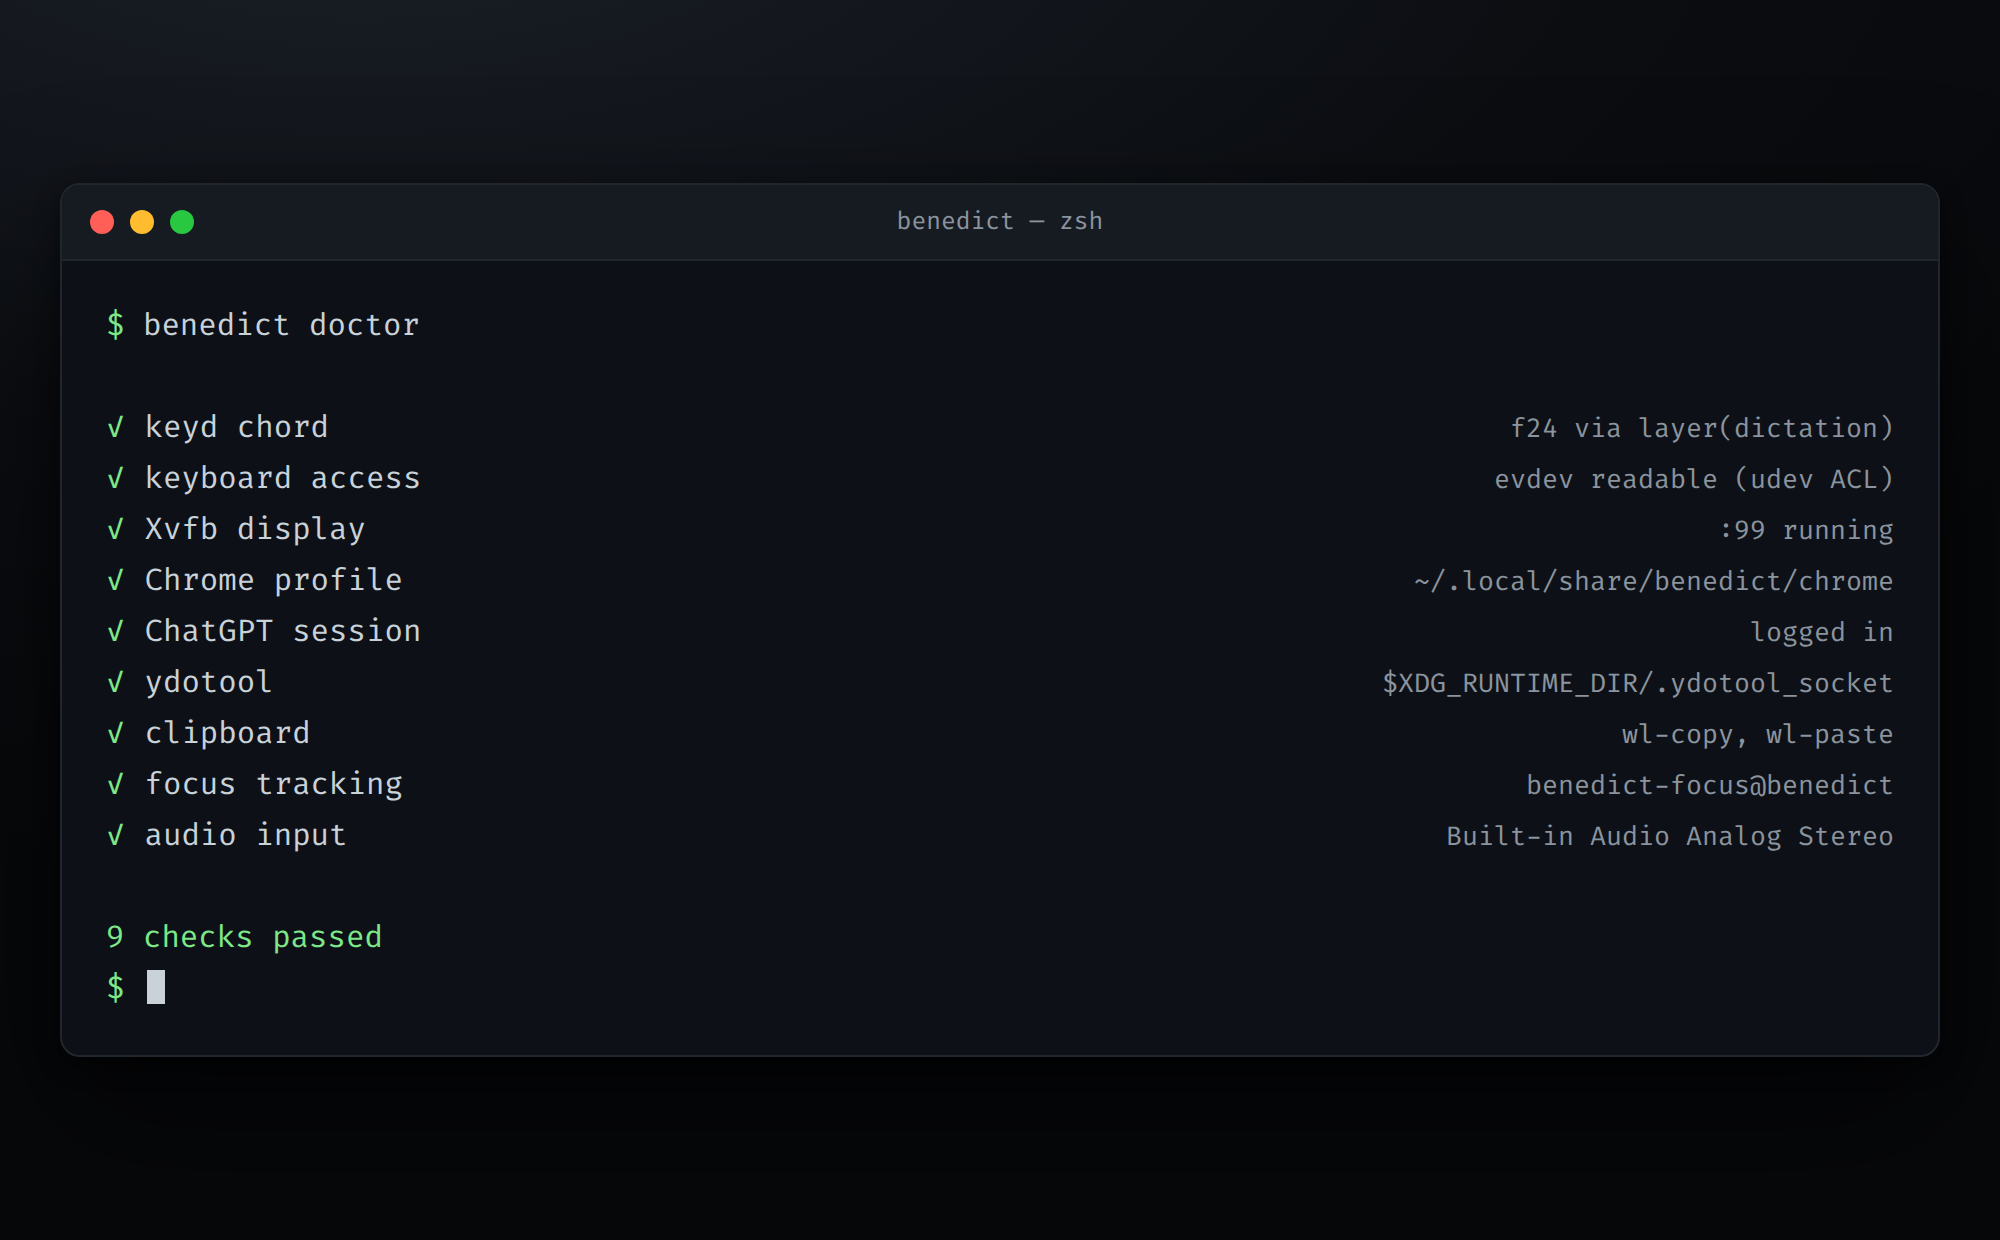
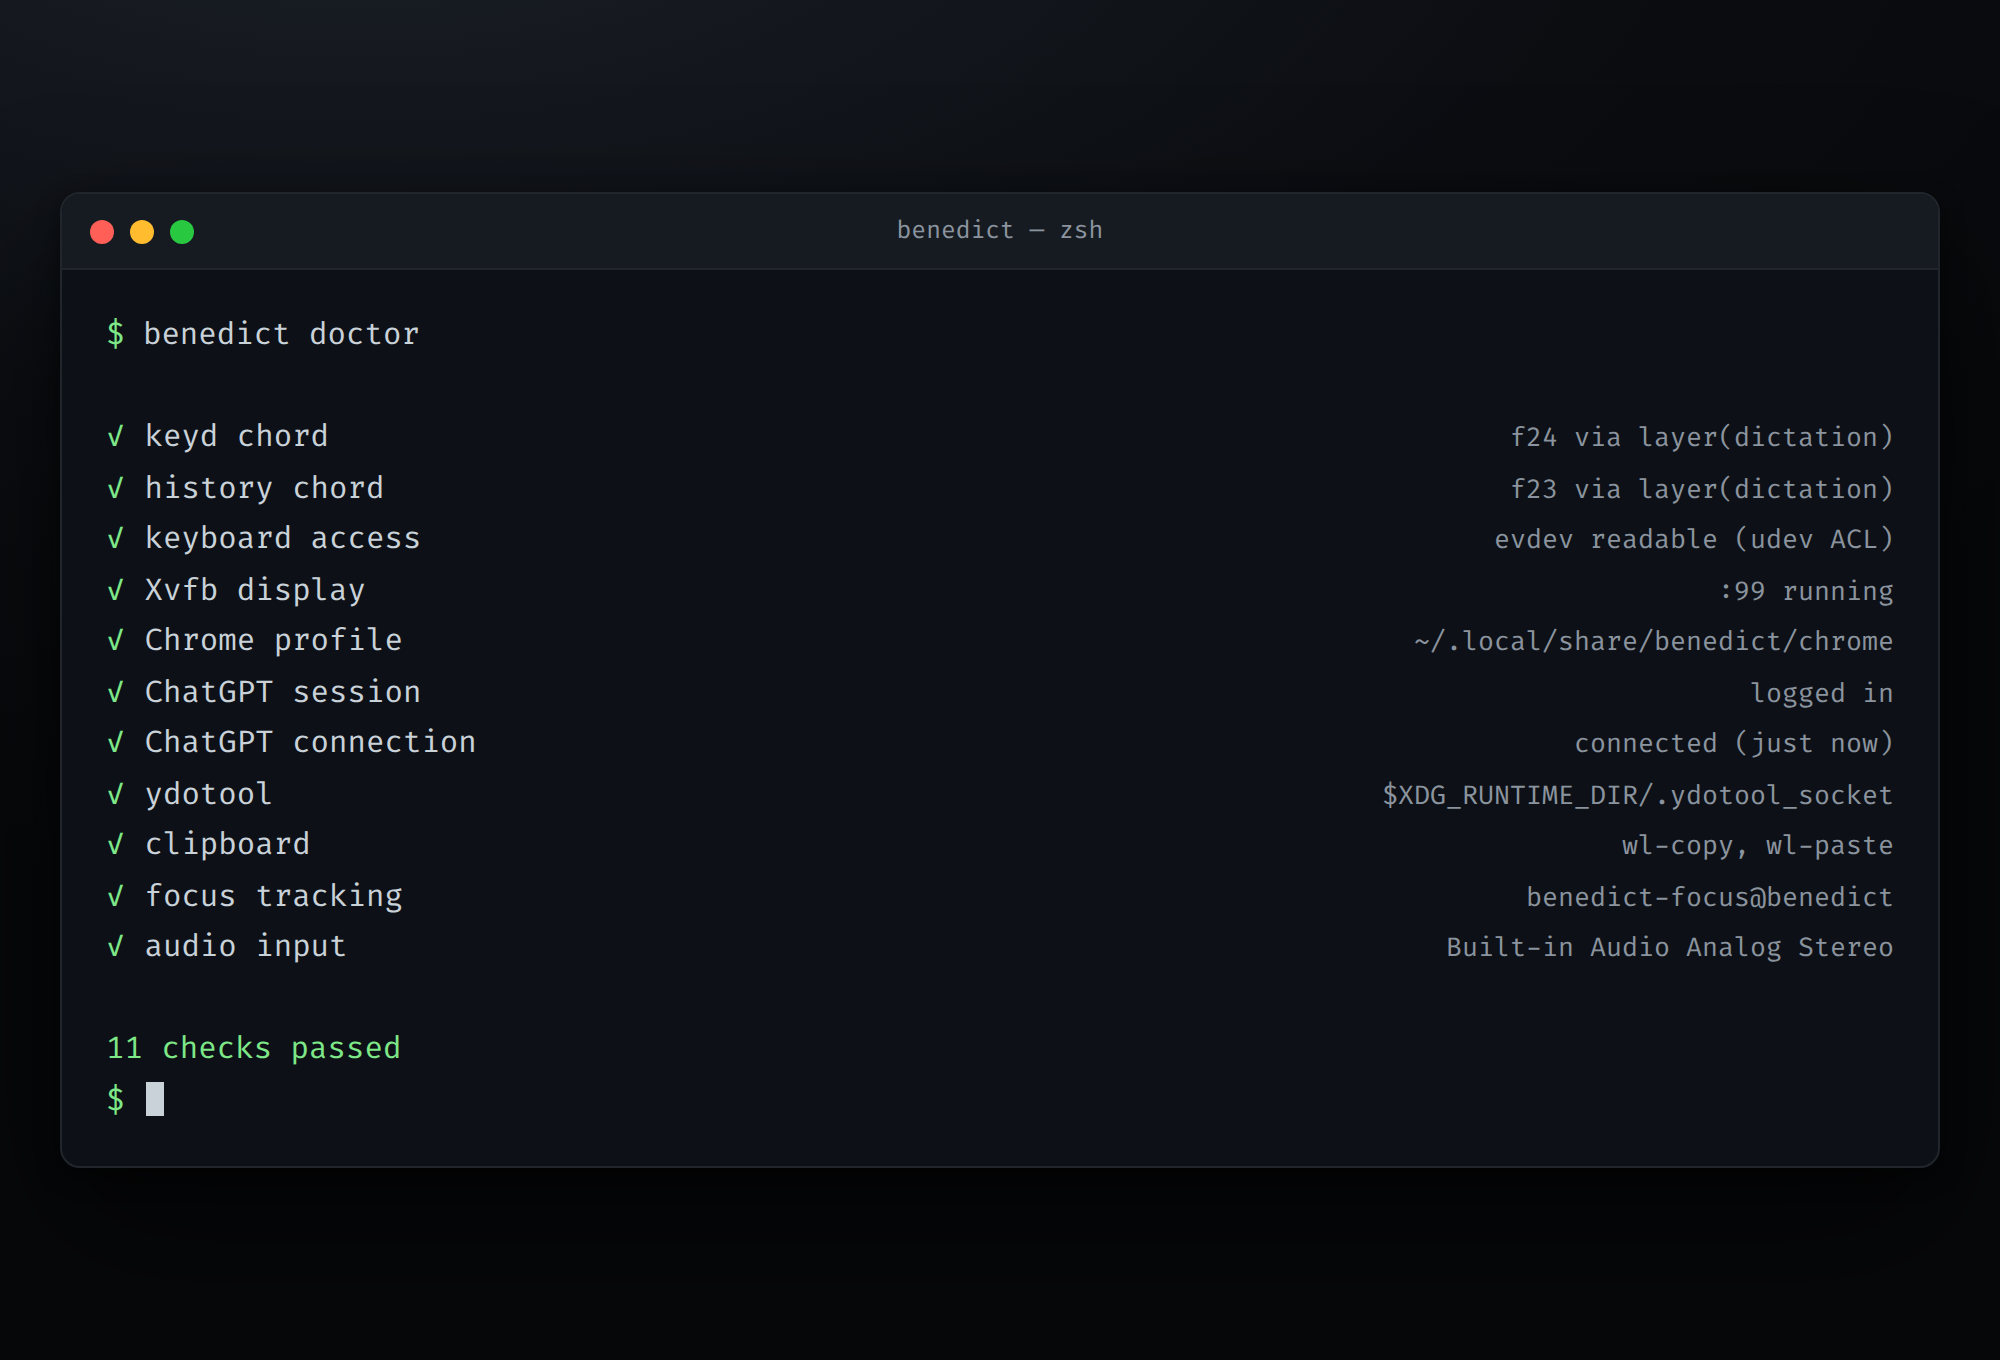
docs: v0.3 — re-paste picker, self-healing connection, 11-point doctor

diff --git a/mockups/picker.html b/mockups/picker.html
@@ -1,0 +1,114 @@
+<!doctype html>
+<html>
+  <head>
+    <meta charset="utf-8" />
+    <link rel="stylesheet" href="base.css" />
+    <style>
+      body,
+      .stage {
+        width: 1280px;
+        height: 800px;
+      }
+      .stage {
+        display: block;
+      }
+      .center .window {
+        width: 760px;
+      }
+      .shade {
+        position: absolute;
+        inset: 0;
+        background: rgba(0, 0, 0, 0.45);
+      }
+      .picker {
+        position: absolute;
+        left: 50%;
+        top: 50%;
+        transform: translate(-50%, -50%);
+        width: 640px;
+        padding: 24px 22px 20px;
+        background: #36363a;
+        border-radius: 20px;
+        box-shadow: 0 24px 60px rgba(0, 0, 0, 0.6);
+        font-family: "Ubuntu Sans", "Cantarell", sans-serif;
+        color: #f2f2f2;
+      }
+      .picker h3 {
+        margin: 0 0 14px;
+        font-size: 15px;
+        font-weight: 700;
+      }
+      .item {
+        display: flex;
+        align-items: center;
+        gap: 14px;
+        padding: 10px 12px;
+        border-radius: 10px;
+        font-size: 14.5px;
+      }
+      .item.sel {
+        background: rgba(126, 231, 135, 0.16);
+      }
+      .item .key {
+        width: 14px;
+        color: var(--accent);
+        font-family: var(--mono);
+      }
+      .item .text {
+        flex: 1;
+        white-space: nowrap;
+        overflow: hidden;
+        text-overflow: ellipsis;
+      }
+      .item .age {
+        color: var(--muted);
+        font-size: 11.5px;
+      }
+      .hint {
+        margin-top: 12px;
+        color: var(--muted);
+        font-size: 11.5px;
+      }
+      .cancel {
+        margin-top: 16px;
+        padding: 11px 0;
+        text-align: center;
+        font-weight: 700;
+        font-size: 14px;
+        background: #48484c;
+        border-radius: 10px;
+      }
+    </style>
+  </head>
+  <body>
+    <div class="stage desktop">
+      <div class="center">
+        <div class="window">
+          <div class="titlebar">
+            <div class="dots"><span class="dot r"></span><span class="dot y"></span><span class="dot g"></span></div>
+            <div class="title">user@bench: ~</div>
+          </div>
+          <div class="body">
+            <div class="line"><span class="green">$</span> git commit -m "<span class="caret"></span></div>
+            <div class="line">&nbsp;</div>
+            <div class="line">&nbsp;</div>
+          </div>
+        </div>
+      </div>
+      <div class="shade"></div>
+      <div class="picker">
+        <h3>Recent transcripts</h3>
+        <div class="item sel"><span class="key">1</span><span class="text">Can you push the release notes to the team channel before five?</span><span class="age">2m</span></div>
+        <div class="item"><span class="key">2</span><span class="text">Fix the pill so it clears the dock in the bottom-right placement too.</span><span class="age">9m</span></div>
+        <div class="item"><span class="key">3</span><span class="text">Looks good to me, ship it once the tests are green.</span><span class="age">24m</span></div>
+        <div class="item"><span class="key">4</span><span class="text">Remind me to rotate the staging database password on Friday.</span><span class="age">41m</span></div>
+        <div class="item"><span class="key">5</span><span class="text">Let's move the retro to Thursday afternoon, same room.</span><span class="age">1h</span></div>
+        <div class="item"><span class="key">6</span><span class="text">Draft a short reply thanking them for the quick turnaround.</span><span class="age">2h</span></div>
+        <div class="item"><span class="key">7</span><span class="text">Add a test for the resume path before we merge.</span><span class="age">3h</span></div>
+        <div class="item"><span class="key">8</span><span class="text">The latency spike lines up with the cache eviction at noon.</span><span class="age">5h</span></div>
+        <div class="hint">Enter paste · 1–9, 0 pick · Esc close</div>
+        <div class="cancel">Cancel</div>
+      </div>
+    </div>
+  </body>
+</html>

diff --git a/index.html b/index.html
@@ -79,6 +79,12 @@
           <b>press</b> &rarr; <b>speak</b> &rarr; <b>release</b> &rarr;
           <b>pasted</b>
         </p>
+        <p>
+          Need something you said a few minutes ago? Press
+          <code>RightCtrl+H</code> and your last ten transcripts appear in a
+          small picker. <code>Enter</code> pastes the newest, a number key
+          picks any other, and <code>Esc</code> puts it away.
+        </p>
       </section>
 
       <section id="how">
@@ -94,7 +100,16 @@
         <p>
           Nothing you dictate is ever sent as a chat message, and the composer
           is cleared after every use. Audio only ever goes where ChatGPT's
-          dictation needs it; your transcripts stay on your machine.
+          dictation needs it; your transcripts stay on your machine, and only
+          the last ten are kept.
+        </p>
+        <p>
+          It looks after itself, too. After a reboot or a long sleep,
+          ChatGPT's bot check sometimes wants a second look at the hidden
+          browser; Benedict notices, clears it on its own, and carries on. If
+          a real sign-in is ever needed, a notification with a
+          <strong>Log in</strong> button takes care of it, so you never have
+          to open a terminal.
         </p>
       </section>
 
@@ -113,6 +128,17 @@
           <figcaption>
             Mid-sentence. The terminal stays where it is, and the pill streams
             the transcript as it forms.
+          </figcaption>
+        </figure>
+
+        <figure>
+          <img
+            src="assets/shot-picker.png"
+            alt="The RightCtrl+H picker listing recent transcripts, the newest one highlighted"
+          />
+          <figcaption>
+            <code>RightCtrl+H</code> brings back anything you said recently.
+            Enter pastes the newest; 1&ndash;9 and 0 pick the rest.
           </figcaption>
         </figure>
 
@@ -142,11 +168,12 @@
         <figure>
           <img
             src="assets/shot-doctor.png"
-            alt="Terminal output of benedict doctor showing all nine checks passing"
+            alt="Terminal output of benedict doctor showing all eleven checks passing"
           />
           <figcaption>
-            <code>benedict doctor</code> checks every moving part, so when
-            something breaks you find out in one command.
+            <code>benedict doctor</code> checks every moving part, down to
+            whether ChatGPT is actually reachable, so when something breaks
+            you find out in one command.
           </figcaption>
         </figure>
       </section>
@@ -179,6 +206,14 @@ sudo ./scripts/setup.sh</pre>
 
       <section id="roadmap">
         <h2>Roadmap</h2>
+        <p>
+          <strong>v0.3</strong> — it survives reboots and long sleeps: the
+          hidden browser repairs ChatGPT's bot check by itself and refreshes
+          after resume, a <strong>Log in</strong> notification replaces the
+          terminal when a sign-in is needed, <code>RightCtrl+H</code> re-pastes
+          any of your last ten transcripts, and <code>benedict doctor</code>
+          checks the live connection.
+        </p>
         <p>
           <strong>v0.2</strong> — the pill grows up: live state, the active
           microphone, the transcript streaming in with a blinking caret,

diff --git a/mockups/doctor.html b/mockups/doctor.html
@@ -6,11 +6,11 @@
     <style>
       body {
         width: 1000px;
-        height: 620px;
+        height: 680px;
       }
       .stage {
         width: 1000px;
-        height: 620px;
+        height: 680px;
       }
       .window {
         width: 940px;
@@ -35,6 +35,10 @@
             ><span class="val">f24 via layer(dictation)</span>
           </div>
           <div class="row">
+            <span class="chk">✓</span><span class="lbl">history chord</span
+            ><span class="val">f23 via layer(dictation)</span>
+          </div>
+          <div class="row">
             <span class="chk">✓</span><span class="lbl">keyboard access</span
             ><span class="val">evdev readable (udev ACL)</span>
           </div>
@@ -49,6 +53,10 @@
           <div class="row">
             <span class="chk">✓</span><span class="lbl">ChatGPT session</span
             ><span class="val">logged in</span>
+          </div>
+          <div class="row">
+            <span class="chk">✓</span><span class="lbl">ChatGPT connection</span
+            ><span class="val">connected (just now)</span>
           </div>
           <div class="row">
             <span class="chk">✓</span><span class="lbl">ydotool</span
@@ -67,7 +75,7 @@
             ><span class="val">Built-in Audio Analog Stereo</span>
           </div>
           <div class="line">&nbsp;</div>
-          <div class="line green">9 checks passed</div>
+          <div class="line green">11 checks passed</div>
           <div class="line"><span class="green">$</span> <span class="caret"></span></div>
         </div>
       </div>
